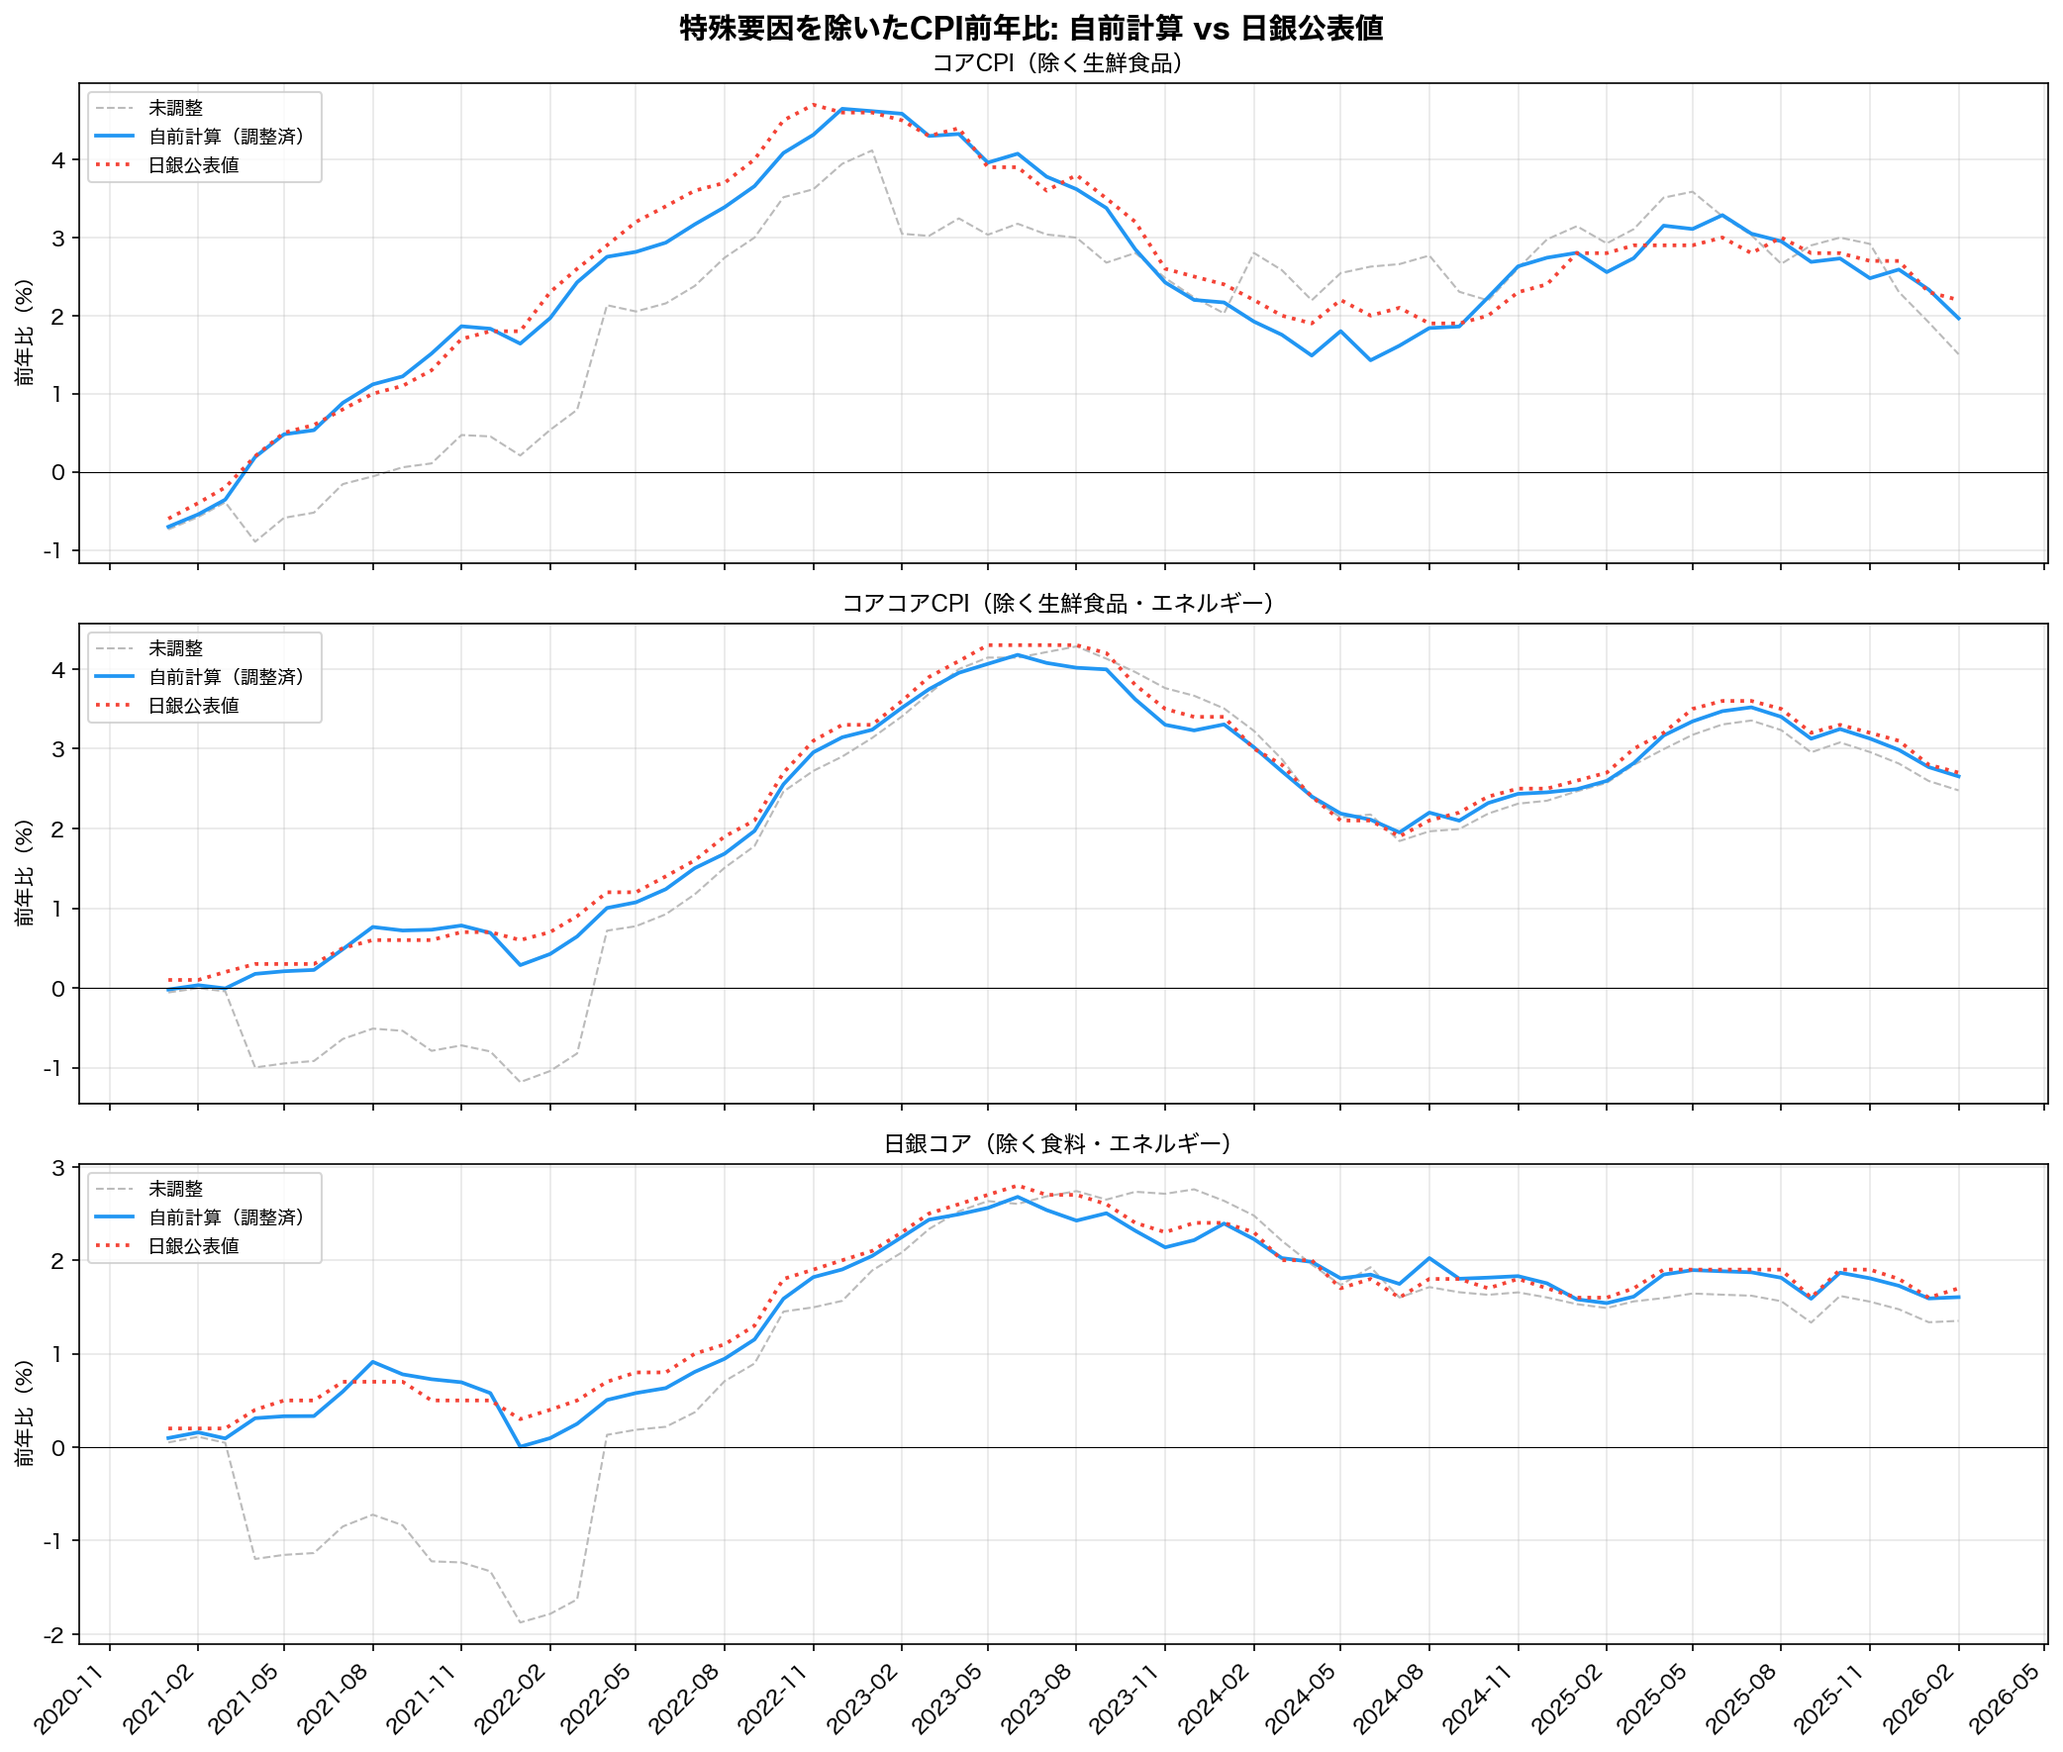
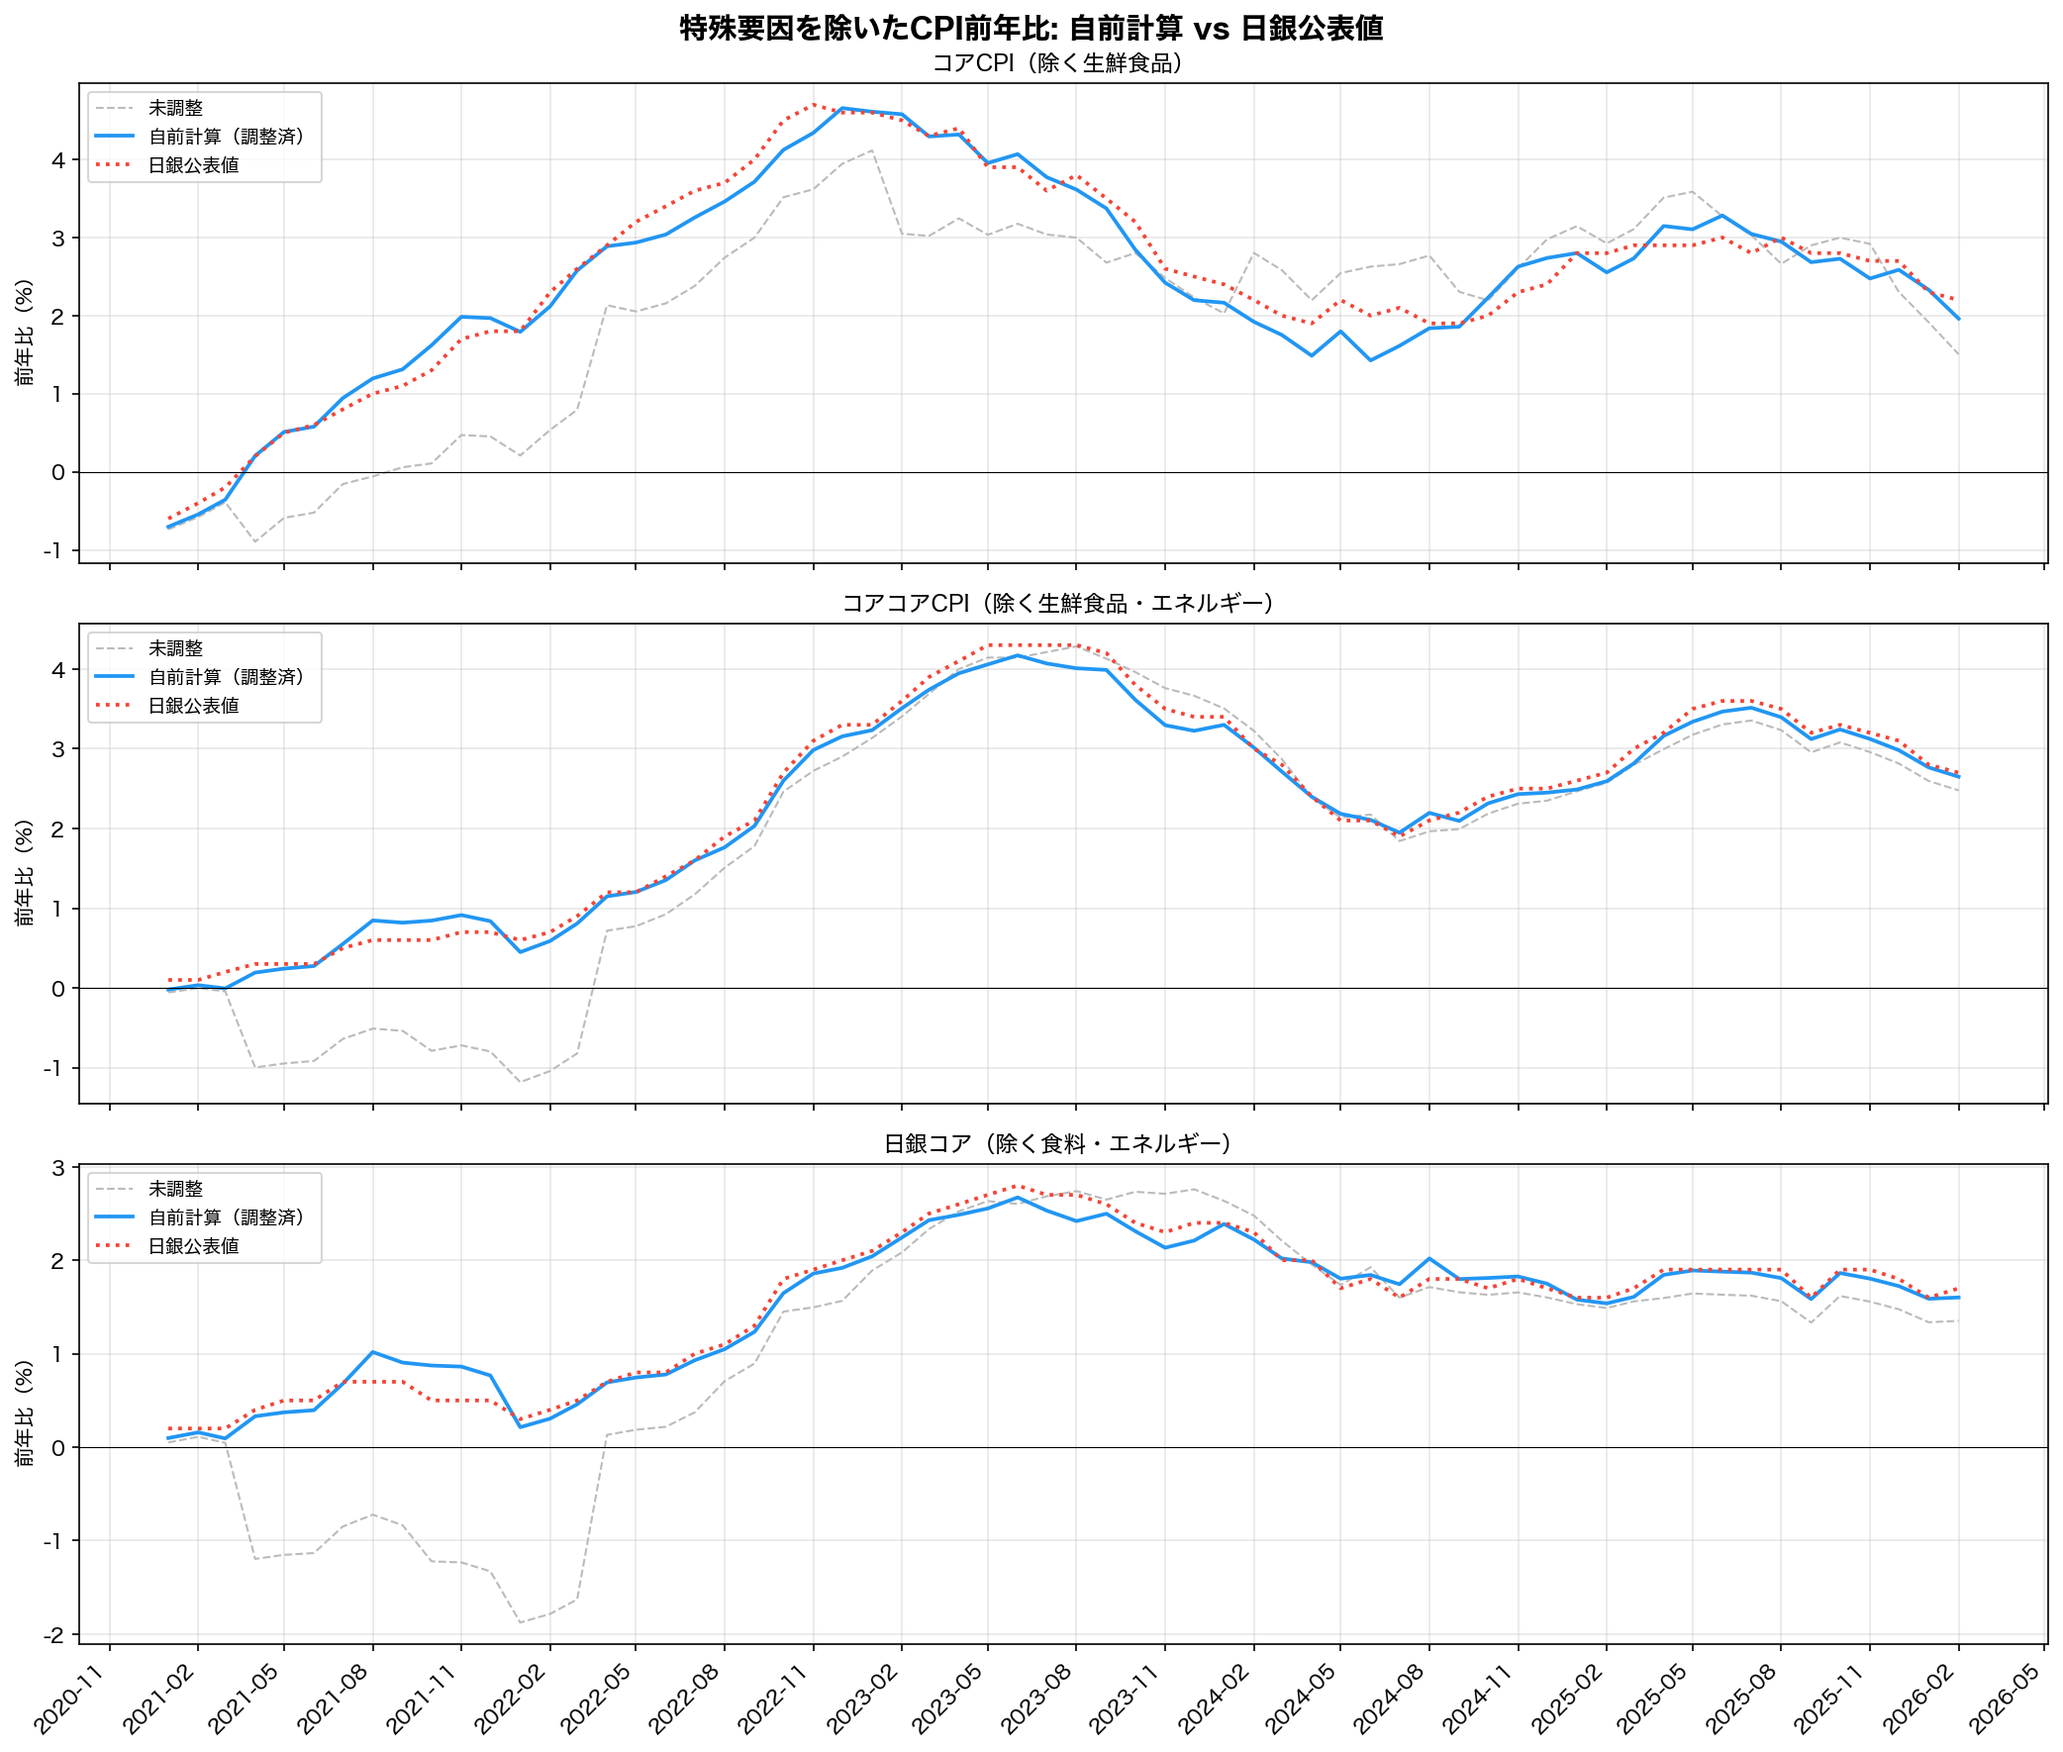
携帯通信料の段差を100%に戻す

diff --git a/src/adjust_interpolation.py b/src/adjust_interpolation.py
@@ -38,10 +38,7 @@ def adjust_mobile(cpi_index: pd.Series) -> pd.Series:
 
     val_start = cpi_index[start_ym]  # 急落前水準
     val_end = cpi_index[end_ym]      # 安定後水準
-    full_step = val_start - val_end   # 段差（正値）
-    # 急落の全額が政策由来ではなく、一部は自然な市場競争による値下げ。
-    # 政策寄与分を9割と推定。
-    step = full_step * 0.9
+    step = val_start - val_end        # 段差（正値）
 
     i_start = all_months.index(start_ym)
     i_end = all_months.index(end_ym)
